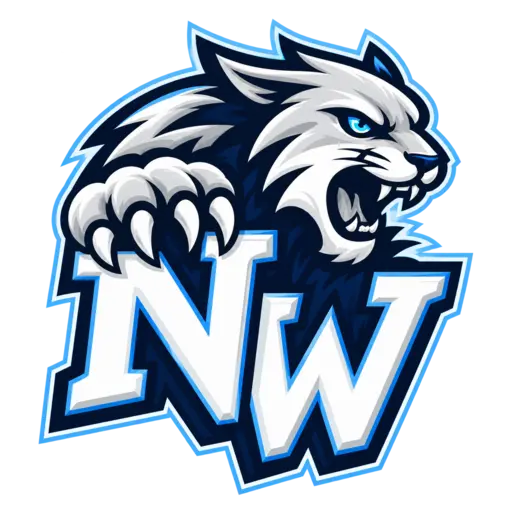
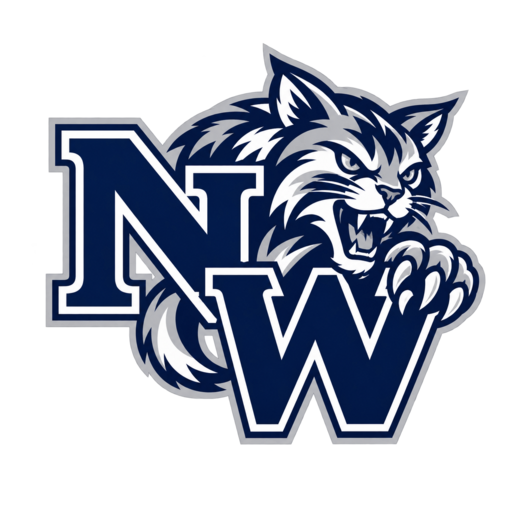
Add Northwestern Oxon Hill Parkdale and Potomac identities

diff --git a/src/data/teamMascots.js b/src/data/teamMascots.js
@@ -128,9 +128,12 @@ export const teamMascots = {
   "Laurel High School": "/mascots/missing-teams/laurel-spartans-full.webp",
   Northwestern: "/mascots/missing-teams/northwestern-wildcats-full.webp",
   "Northwestern High School": "/mascots/missing-teams/northwestern-wildcats-full.webp",
-  "Oxon Hill": "/mascots/oxon-hill.svg",
-  Parkdale: "/mascots/parkdale.svg",
-  Potomac: "/mascots/potomac.svg",
+  "Oxon Hill": "/mascots/missing-teams/oxon-hill-clippers-full.webp",
+  "Oxon Hill High School": "/mascots/missing-teams/oxon-hill-clippers-full.webp",
+  Parkdale: "/mascots/missing-teams/parkdale-panthers-full.webp",
+  "Parkdale High School": "/mascots/missing-teams/parkdale-panthers-full.webp",
+  Potomac: "/mascots/missing-teams/potomac-wolverines-full.webp",
+  "Potomac High School": "/mascots/missing-teams/potomac-wolverines-full.webp",
   Suitland: "/mascots/suitland.svg",
   Surrattsville: "/mascots/surrattsville.svg",
   Wise: "/mascots/wise.svg",
@@ -221,6 +224,14 @@ export const teamMascots = {
 };
 
 const scoreMascots = {
+  Northwestern: "/mascots/missing-teams/northwestern-score-nw.webp",
+  "Northwestern High School": "/mascots/missing-teams/northwestern-score-nw.webp",
+  "Oxon Hill": "/mascots/missing-teams/oxon-hill-score-oh.webp",
+  "Oxon Hill High School": "/mascots/missing-teams/oxon-hill-score-oh.webp",
+  Parkdale: "/mascots/missing-teams/parkdale-score-p.webp",
+  "Parkdale High School": "/mascots/missing-teams/parkdale-score-p.webp",
+  Potomac: "/mascots/missing-teams/potomac-score-pt.webp",
+  "Potomac High School": "/mascots/missing-teams/potomac-score-pt.webp",
   "Gwynn Park": "/mascots/missing-teams/gwynn-park-score-gp.webp",
   "Gwynn Park High School": "/mascots/missing-teams/gwynn-park-score-gp.webp",
   "High Point": "/mascots/missing-teams/high-point-score-hp.webp",
@@ -262,8 +273,6 @@ const scoreMascots = {
   "Sidwell Friends School": "/mascots/missing-teams/sidwell-friends-score-sf.webp",
   Roosevelt: "/mascots/missing-teams/roosevelt-score-tr.webp",
   "Theodore Roosevelt": "/mascots/missing-teams/roosevelt-score-tr.webp",
-  Northwestern: "/mascots/missing-teams/northwestern-score-nw.webp",
-  "Northwestern High School": "/mascots/missing-teams/northwestern-score-nw.webp",
   "Eagle Academy II": "/mascots/missing-teams/eagle-academy-ii-score-eaii.webp",
   "Eagle Academy for Young Men II": "/mascots/missing-teams/eagle-academy-ii-score-eaii.webp",
   Steubenville: "/mascots/missing-teams/steubenville-score-s.webp",
